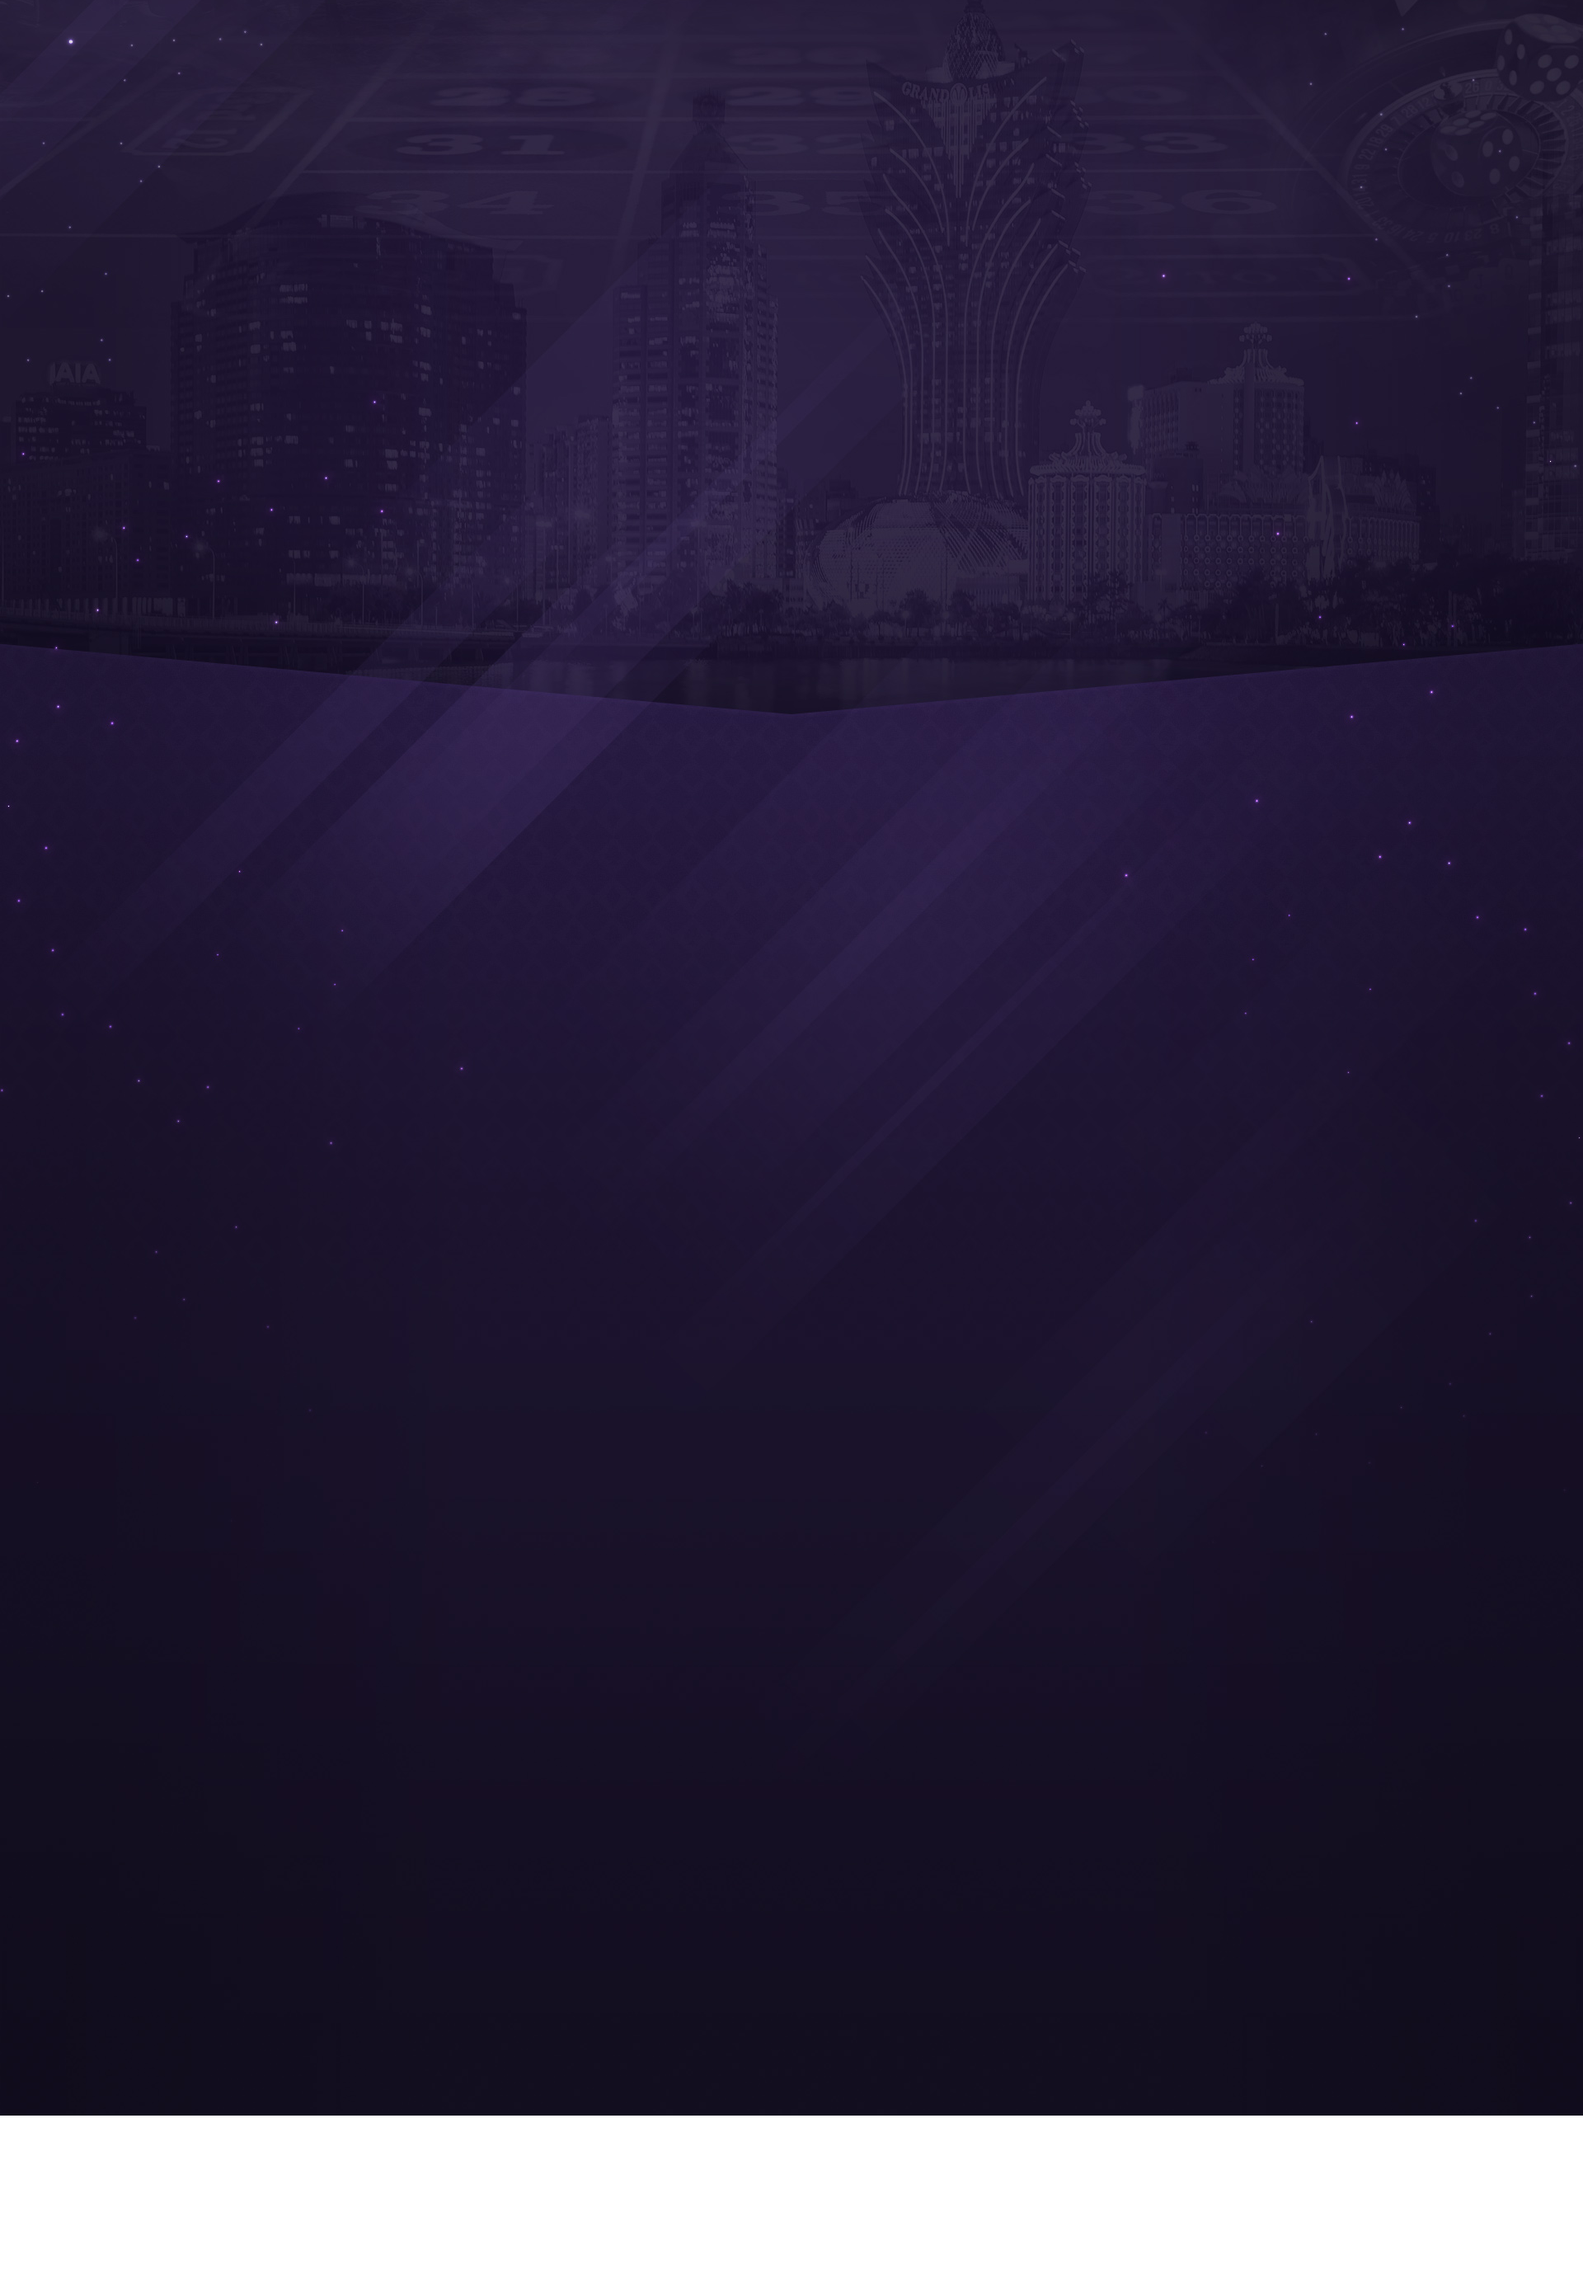
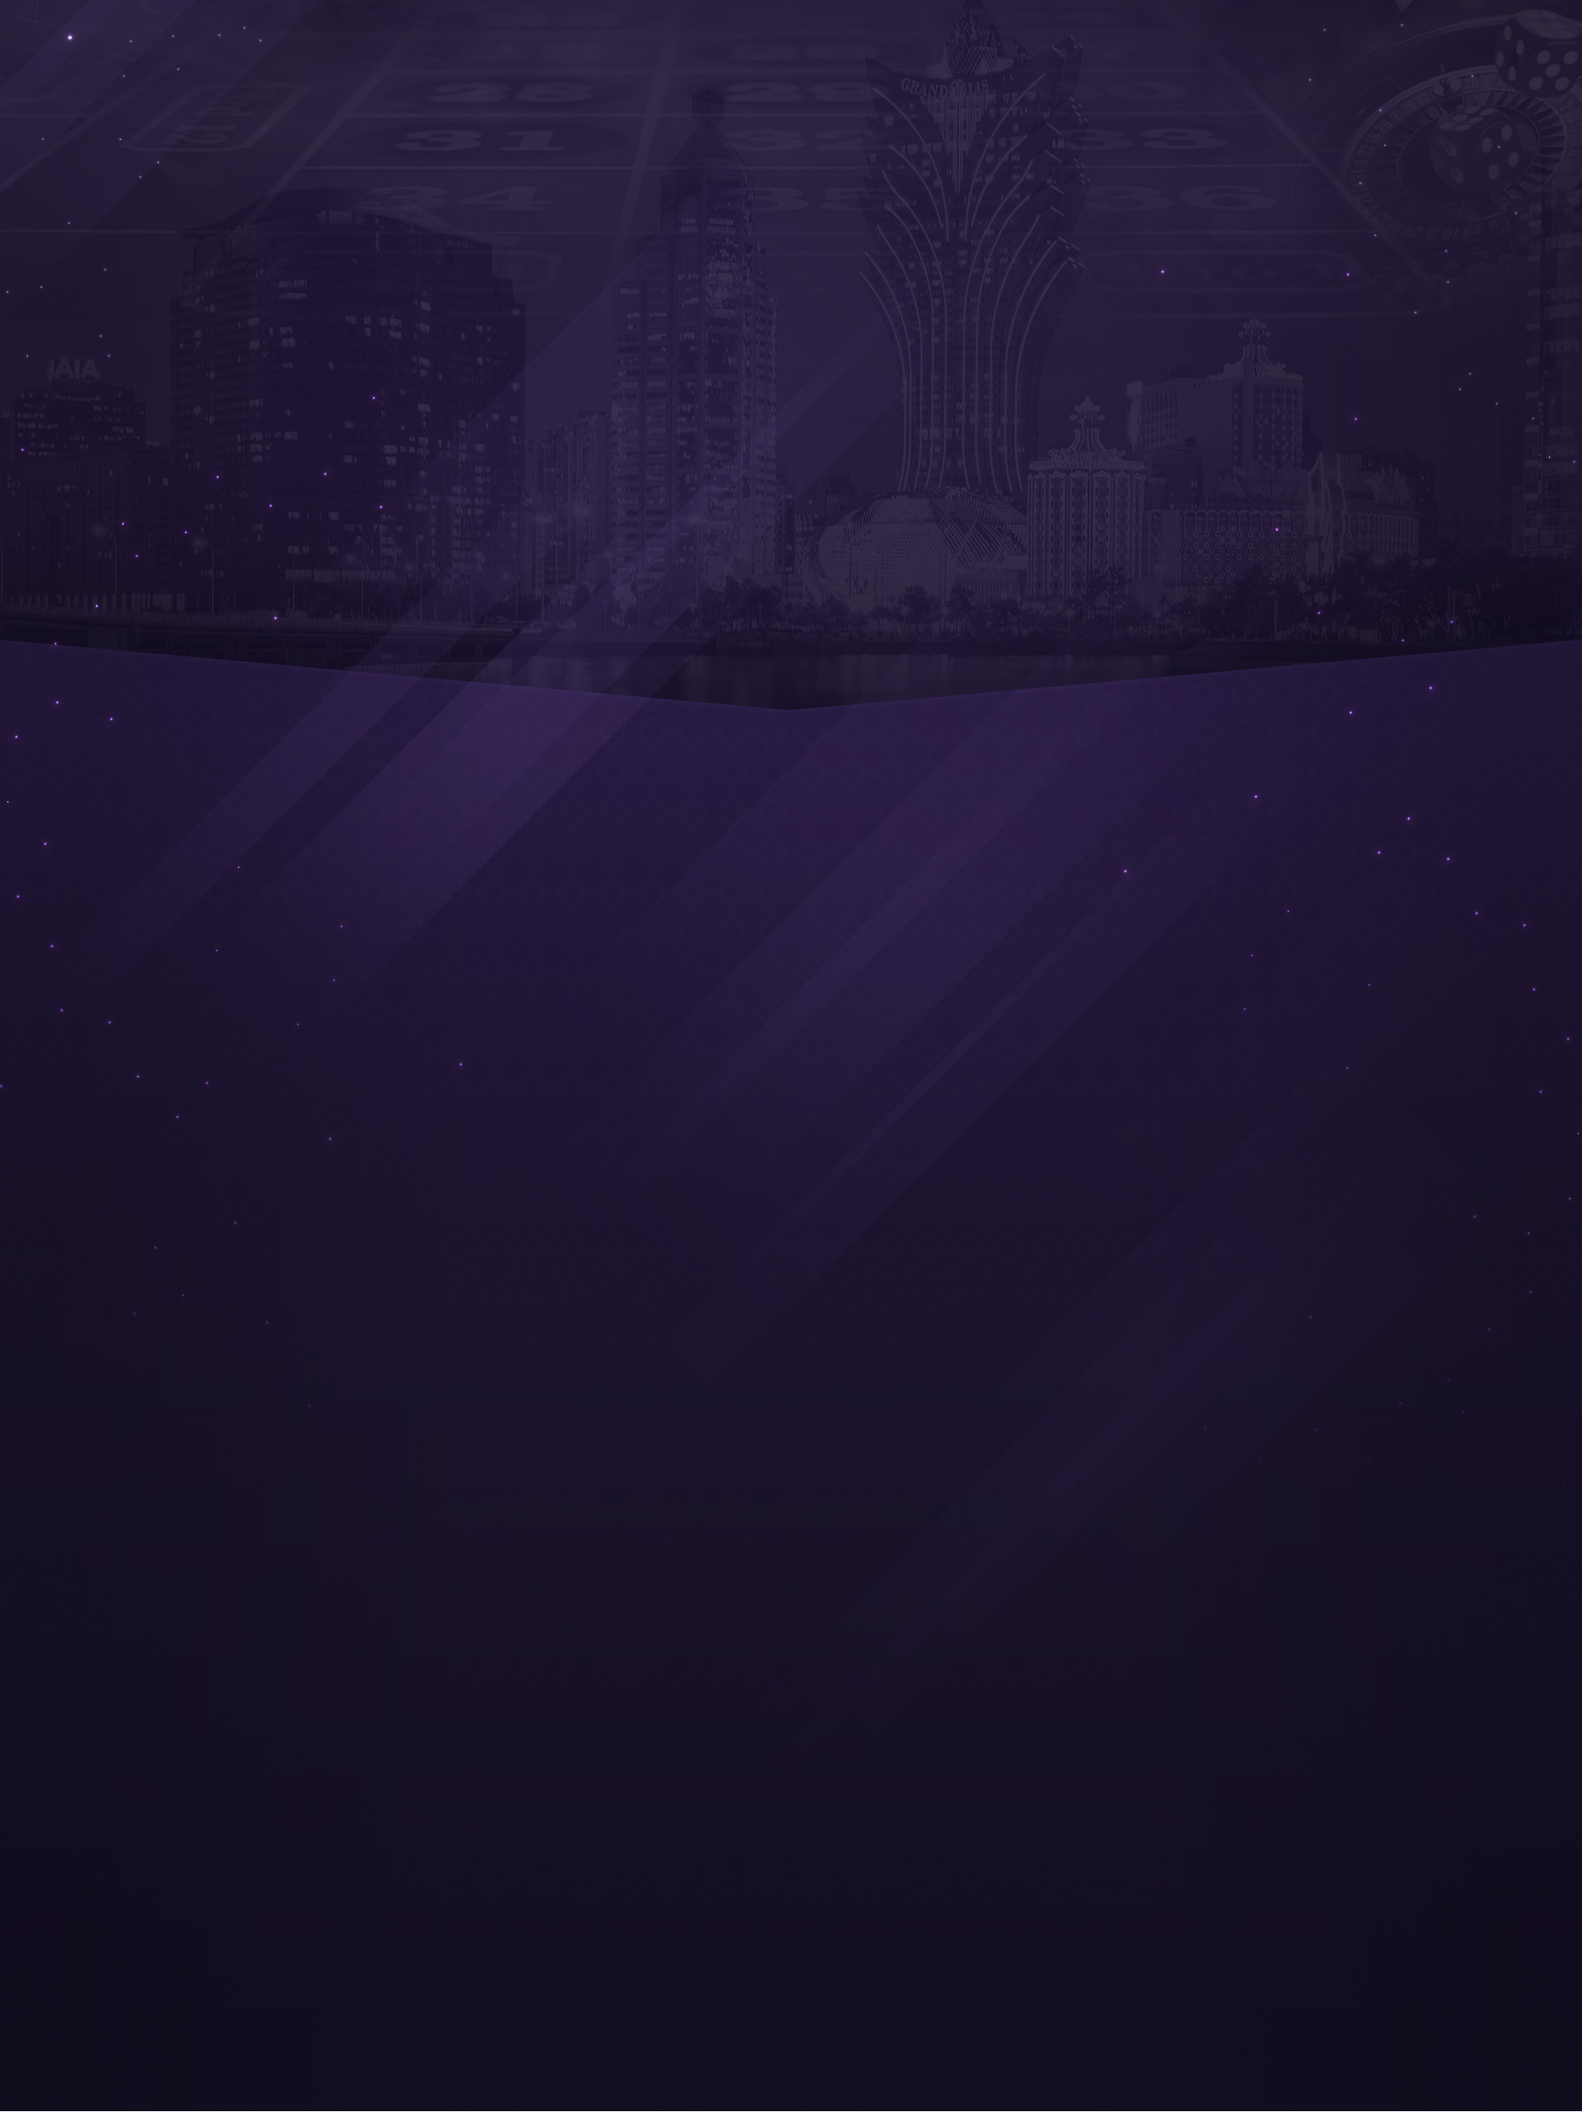
update main page

diff --git a/source/index.html b/source/index.html
@@ -26,10 +26,10 @@
       <div class="container">
         <section class="enter">
           <div class="enter__login enter__btn">
-            <button class="enter__login-btn">Вход</button>
+            <button class="enter__login-btn" data-modal="enter">Вход</button>
           </div>
           <div class="enter__reg enter__btn">
-            <button class="enter__reg-btn">Регистрация</button>
+            <button class="enter__reg-btn" data-modal="registration">Регистрация</button>
           </div>
         </section>
 
@@ -44,7 +44,7 @@
             <div class="games__item-information">
               <div class="games__item-info">
                 <a class="games__item-status games__item-status--new" href="#">new</a>
-                <a class="games__item-status games__item-status--demo" href="#">demo</a>
+                <button class="games__item-status games__item-status--demo popup-link" id="popup">demo</button>
               </div>
               <div class="games__item-title">ultra hot deluxe</div>
             </div>
@@ -200,6 +200,25 @@
         </li>
       </ul>
   </footer>
+
+  <div class="overlay">
+    <div class="modal" id="enter"></div>
+    <div class="modal modal__reg" id="registration">
+      <div class="modal__close" id="modal-close">&times;</div>
+      <div class="modal__reg-text">Для регистрации в системе,
+        пожалуйста, обратитесь в <a class="modal__reg-link" href="#">техподдержку</a></div>
+    </div>
+
+    <div class="popup" id="popup">
+      <div class="popup__body">
+        <div class="popup__content">
+          <div class="popup__text">Чтобы играть без ограничений, пожалуйста, выполните вход</div>
+        </div>
+      </div>
+    </div>
+  </div>
+
+
 
   <script src="js/jquery-3.5.1.js"></script>
   <script src="js/slick.min.js"></script>

diff --git a/source/sass/blocks/games.scss b/source/sass/blocks/games.scss
@@ -8,11 +8,45 @@
   display: flex;
   flex-wrap: wrap;
   justify-content: space-between;
+  position: relative;
+
+  &::after {
+    content: "";
+    position: absolute;
+    background-image: url("../img/diamond.png");
+    width: 80px;
+    height: 78px;
+    bottom: -39px;
+    left: 80px;
+    background-size: cover;
+    mix-blend-mode: screen;
+    transform: matrix(0.98, 0.17, -0.19, 0.99, 0, 0);
+
+  }
+
+  &::before {
+    content: "";
+    position: absolute;
+    background-image: url("../img/diamond.png");
+    width: 129px;
+    height: 129px;
+    bottom: -90px;
+    right: 509px;
+    background-size: cover;
+    mix-blend-mode: screen;
+    transform: translate(10px , 10px);
+  }
 
   &__item {
     width: 361px;
     height: 244px;
     margin-bottom: 60px;
+
+    &:hover {
+      .games__item-img {
+        opacity: 1;
+      }
+    }
   }
 
   &__item-icon {
@@ -37,6 +71,7 @@
     width: 284px;
     height: 159px;
     position: relative;
+    opacity: 0.75;
   }
 
   &__item-information {
@@ -56,14 +91,16 @@
     height: 26px;
     font-size: 12px;
     line-height: 16px;
+    font-weight: 700;
     text-transform: uppercase;
     padding: 5px 13px;
     clip-path: polygon(0% 0%, 75% 0%, 100% 50%, 75% 100%, 0% 100%);
+    position: relative;
 
     &--new {
       width: 59px;
       background: #ED5A5A;
-      border-radius: 4px;
+
       position: relative;
       z-index: 5;
     }
@@ -74,9 +111,21 @@
       border-radius: 4px;
       margin-left: -5px;
     }
+
+    &--reg {
+      position: absolute;
+      top: 50%;
+      left: 50%;
+      background-color: #fff;
+      width: 360px;
+      height: 148px;
+      box-shadow: 10px 10px 30px rgba(0, 0, 0, 0.25), inset -5px -5px 5px rgba(49, 41, 56, 0.15);
+      border-radius: 8px;
+    }
   }
 
   &__item-title {
     text-transform: uppercase;
   }
 }
+

diff --git a/source/js/common.js b/source/js/common.js
@@ -1,0 +1,53 @@
+// alert
+let playWithoutLimits = document.querySelector('.games__item-status--demo');
+
+playWithoutLimits.onclick = function () {
+  playWithoutLimits.classList.toggle('games__item-status--reg');
+};
+
+// modal
+$('[data-modal=registration]').on('click', function () {
+  $('.overlay, #registration').fadeIn();
+});
+
+$('.modal__close').on('click', function () {
+  $('.overlay, #registration').fadeOut();
+});
+
+
+// modal
+// (document.getElementById("popup").onclick = function () {
+//   document.getElementById("overlay").classList.toggle("overlay--active"),
+//     document.getElementById("modal").classList.toggle("modal--active");
+// }),
+// (document.getElementById("modal-close").onclick = function () {
+//   document.getElementById("overlay").classList.remove("overlay--active"),
+//     document.getElementById("modal").classList.remove("modal--active");
+// }),
+// document.getElementById("overlay").addEventListener("click", function (e) {
+//   "overlay" == e.target.id &&
+//     (this.classList.remove("overlay--active"),
+//       document.getElementById("modal").classList.remove("modal--active"));
+// });
+
+// popup
+const popupLinks = document.querySelectorAll(".popup-link");
+const body = document.querySelector("body");
+const lockPadding = document.querySelectorAll(".lock-padding");
+
+let unlock = true;
+
+const timeOut = 800;
+
+if (popupLinks.length > 0) {
+  for (let index = 0; index < popupLinks.length; index++) {
+    const popupLink = popupLinks[index];
+    popupLink.addEventListener("click", function (e) {
+      const popupName = popupLink.getAttribute("href").replace("#", " ");
+      const currentPopup = document.getElementById(popupName);
+      popupOpen(currentPopup);
+      e.preventDefault();
+    });
+  }
+}
+

diff --git a/source/sass/blocks/modal.scss b/source/sass/blocks/modal.scss
@@ -1,0 +1,72 @@
+.modal {
+  position: absolute;
+  top: 50%;
+  left: 50%;
+  transform: translate(-50%, -50%);
+  background: #1B1328;
+  border: 6px solid #684c44;
+  border-radius: 12px;
+
+  &__reg {
+    width: 600px;
+    height: 260px;
+    display: flex;
+    align-items: center;
+    justify-content: center;
+    text-align: center;
+  }
+
+  &__reg-text {
+    width: 425px;
+    font-weight: 400;
+  }
+
+  &__reg-link {
+    color: #C5B873;
+    text-decoration: underline;
+  }
+
+  &__close {
+    position: absolute;
+    top: -24px;
+    right: -24px;
+    width: 48px;
+    height: 48px;
+    background: linear-gradient(180deg, rgba(247, 137, 137, 0.5) 0%, rgba(45, 25, 61, 0.229167) 69.27%, rgba(0, 0, 0, 0) 100%), #AE0419;
+    box-shadow: 5px 5px 15px rgba(0, 0, 0, 0.25);
+    border-radius: 12px;
+    font-size: 41px;
+    line-height: 21px;
+    border: 3px solid #684c44;
+    color: #fff;
+    box-shadow: inset 0px 0px 10px rgba(11, 7, 17, 0.5);
+    cursor: pointer;
+    display: flex;
+    align-items: center;
+    justify-content: center;
+    opacity: 0.9;
+
+    &:hover {
+      opacity: 1;
+      transition: hover 0.3s;
+    }
+
+    &:active {
+      opacity: 0.75;
+    }
+  }
+
+  &__limits {
+    position: absolute;
+    left: 50%;
+    top: 50%;
+    width: 360px;
+    height: 148px;
+    box-shadow: 10px 10px 30px rgba(0, 0, 0, 0.25), inset -5px -5px 5px rgba(49, 41, 56, 0.15);
+    border-radius: 8px;
+    font-size: 20px;
+    line-height: 26px;
+    font-weight: 400;
+    padding: 49px 45px;
+  }
+}

diff --git a/source/sass/blocks/popup.scss b/source/sass/blocks/popup.scss
@@ -1,0 +1,50 @@
+.popup {
+  position: fixed;
+  width: 100%;
+  height: 100%;
+  background: rgba(24, 16, 31, 0.9);
+  backdrop-filter: blur(10px);
+  z-index: 10;
+  top: 0;
+  left: 0;
+  opacity: 0;
+  visibility: hidden;
+  overflow-y: auto;
+  overflow-x: hidden;
+  transition: all 0.8s ease 0s;
+
+  &__body {
+    min-height: 100%;
+    display: flex;
+    align-items: center;
+    justify-content: center;
+    padding: 30px 10px;
+  }
+
+  &__content {
+    max-width: 360px;
+    max-height: 148px;
+    background: #FFFFFF;
+    box-shadow: 10px 10px 30px rgba(0, 0, 0, 0.25), inset -5px -5px 5px rgba(49, 41, 56, 0.15);
+    border-radius: 8px;
+    padding: 49px 45px;
+  }
+
+  &__text {
+    font-size: 20px;
+    line-height: 26px;
+    font-weight: 400;
+    color: #000;
+    text-align: center;
+  }
+}
+
+.popup.open {
+  opacity: 1;
+  visibility: visible;
+}
+
+.popup.open .popup__content {
+  transform: perspective(380px) translate(0px, 0%) rotateX(0deg);
+  opacity: 1;
+}

diff --git a/source/sass/blocks/footer.scss b/source/sass/blocks/footer.scss
@@ -4,7 +4,6 @@
   height: 335px;
   background-color: #251433;
   padding: 53px 0 40px;
-  margin-top: -87px;
 
   &::after {
     content: "";
@@ -118,5 +117,15 @@
   &__social-link {
     height: 86px;
     width: 86px;
+
+    &:hover {
+
+      transform: transition 0.3s ease-in-out;
+    }
+
+    &:active {
+      opacity: 0.75;
+      box-shadow: none;
+    }
   }
 }

diff --git a/source/sass/general/global.scss b/source/sass/general/global.scss
@@ -128,3 +128,14 @@ input[type="search"]::-webkit-search-results-decoration {
     max-width: none;
   }
 }
+
+.overlay {
+  display: none;
+  position: fixed;
+  width: 100%;
+  height: 100%;
+  background: rgba(24, 16, 31, 0.9);
+  backdrop-filter: blur(10px);
+  top: 0;
+  z-index: 10;
+}

diff --git a/source/sass/blocks/main.scss b/source/sass/blocks/main.scss
@@ -1,6 +1,6 @@
 .main {
   background-image: url("../img/background.png");
-  height: 2514px;
+  height: 2380px;
   background-position: center;
   background-size: cover;
   background-repeat: no-repeat;

diff --git a/source/sass/general/blocks.scss b/source/sass/general/blocks.scss
@@ -4,4 +4,6 @@
 @import "blocks/enter.scss";
 @import "blocks/banner.scss";
 @import "blocks/games.scss";
+@import "blocks/modal.scss";
+@import "blocks/popup.scss";
 
